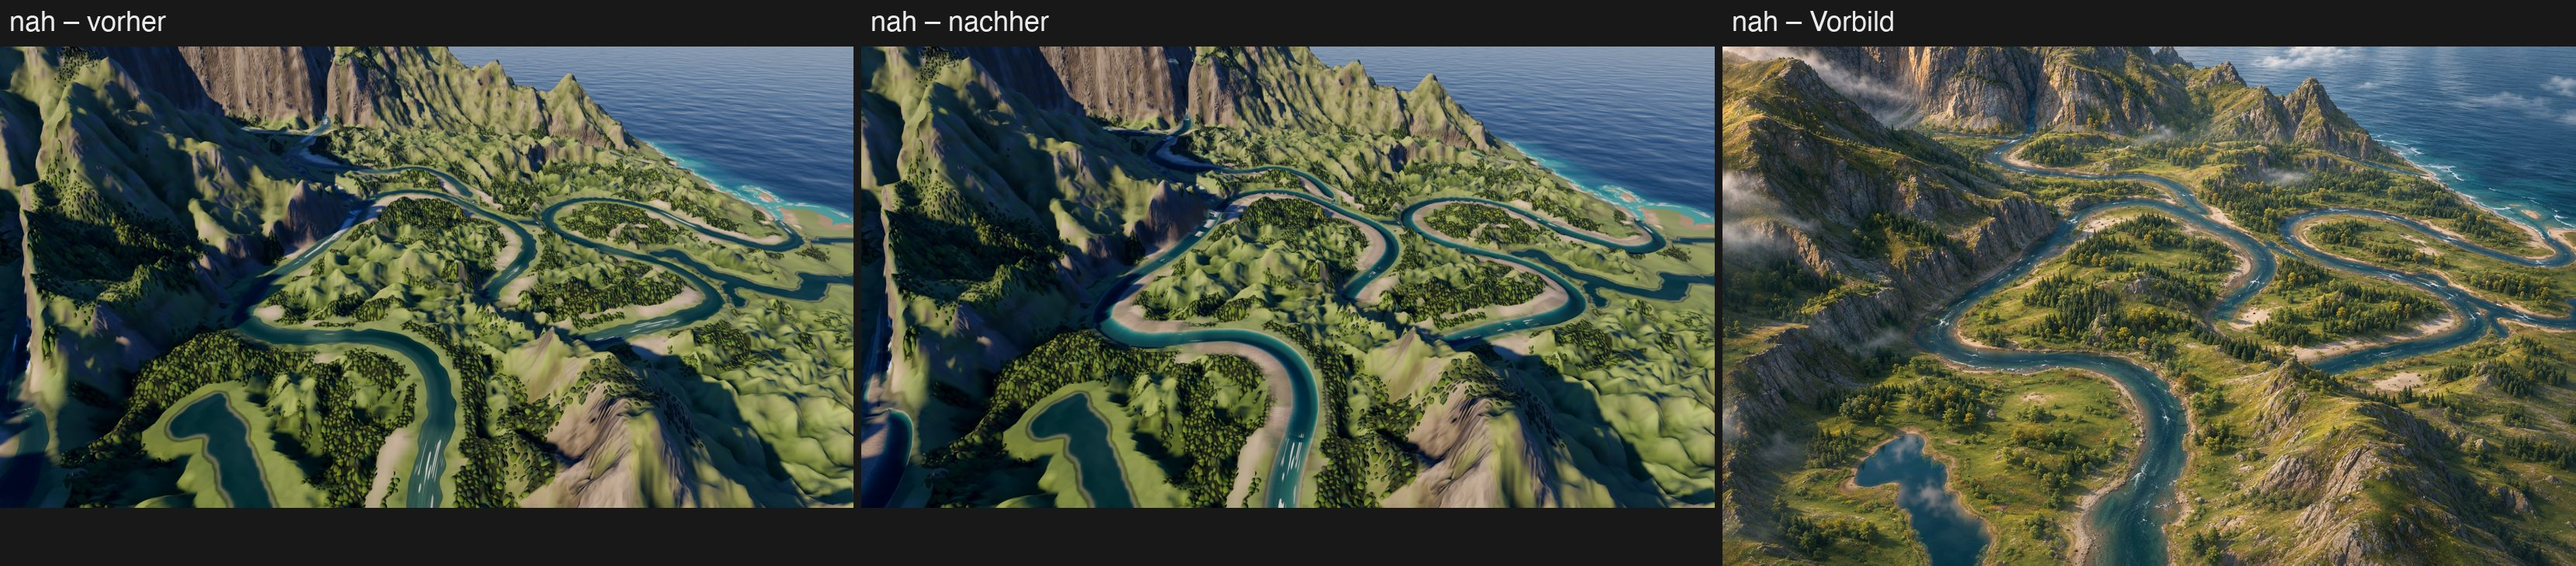
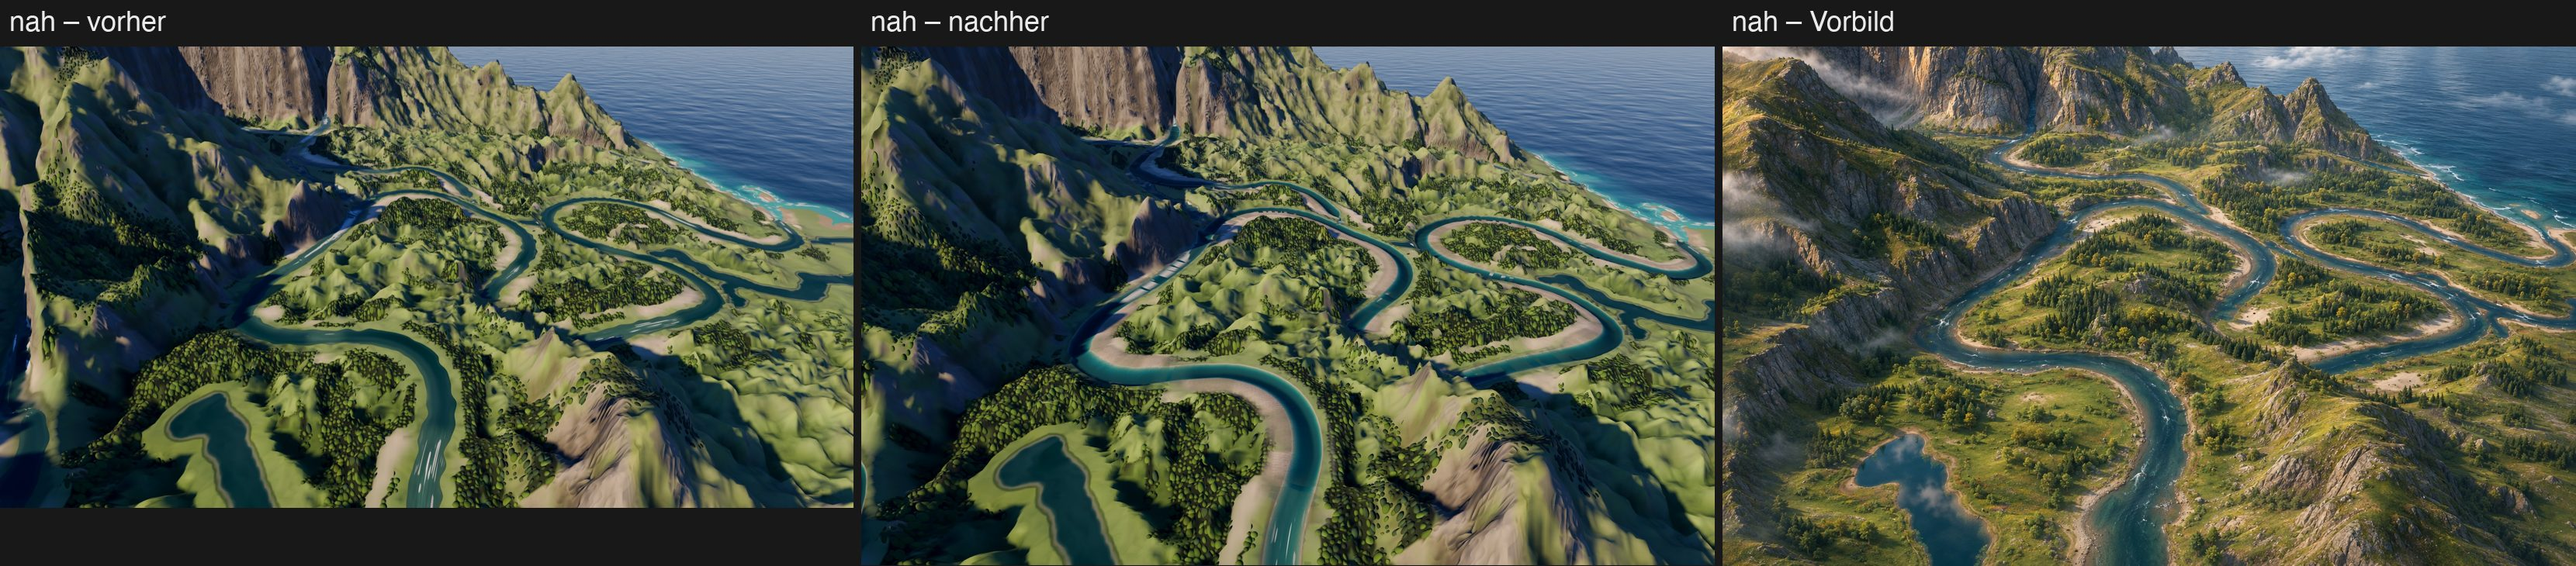
Corridor: keep the lid near the water in canyons
In steep canyons the bank tops climbed the rock wall and lifted the lid
with them. The lid depth then pulled ribbon and bank in front of the ridge
before the river, so pieces of water and bank hung in the air. Cap the lid
at 0.12 above the visible water level, end corridor columns below it so the
wall itself covers the rest, shorten the lid reach at grazing angles, and
guard it with a canyon section test and the aged-world test.

Changed region(s): [[0.3102, 0.0603, 0.6825, 1.0]]

diff --git a/SimCore/Tests/SimCoreTests/RiverCorridorTests.swift b/SimCore/Tests/SimCoreTests/RiverCorridorTests.swift
@@ -66,6 +66,26 @@ final class RiverCorridorTests: XCTestCase {
         XCTAssertGreaterThanOrEqual(s.lid, 1.1, "Deckel über dem Wasser")
     }
 
+    /// Schlucht (Befund zu #240): Ufer, die eine Felswand hochstiegen, hoben
+    /// den Deckel und zogen Band und Böschung vor den Grat davor. Der Deckel
+    /// bleibt knapp über dem Wasser, der Korridor endet darunter, die Wand
+    /// zeigt das Gelände selbst.
+    func testCanyonKeepsTheLidNearTheWater() {
+        let k = CorridorProfile.columns, sh = CorridorProfile.shoreColumn
+        // Sohle 1,0 in der Mitte, Wände steigen ab 1,5 Zellen um 1 je Zelle.
+        let wall: (Double) -> Double = { c in 1.0 + max(0, abs(c) - 1.5) }
+        let s = CorridorProfile.section(halfWidthCells: 2, visible: 1, waterLeft: 1.0, waterRight: 1.0,
+                                        bend: 0, riffle: 0, cellSize: 0.156, surface: wall)
+        let cap = 1.0 + CorridorProfile.lidMaxAboveWater + CorridorProfile.lidClearance
+        XCTAssertLessThanOrEqual(s.lid, cap + 1e-12, "Deckel klettert die Schluchtwand hoch")
+        for c in 0..<k {
+            XCTAssertLessThanOrEqual(s.heights[c], s.lid - CorridorProfile.lidClearance + 1e-12,
+                                     "Korridor über dem Deckel (Spalte \(c))")
+        }
+        XCTAssertGreaterThanOrEqual(s.heights[CorridorProfile.topColumn], s.heights[sh] + CorridorProfile.freeboard - 1e-12,
+                                    "Wasser über dem Ufer")
+    }
+
     /// Pflicht-Wächter auf der gealterten Render-Testwelt: Mesh konsistent,
     /// Bett unter der Uferkante, Wasser nie über dem Ufer, kein Gelände über
     /// dem Deckel (sonst stäche es durch Bett und Wasserfläche).
@@ -88,7 +108,7 @@ final class RiverCorridorTests: XCTestCase {
 
         let n = t.cfg.n, cs = t.cfg.cellSize, half = t.cfg.world / 2
         let bank = BankSurface(h: t.h, n: n, renderGrid: n, hscale: RenderContract.heightScale)
-        var sections = 0, bedAbove = 0, waterAbove = 0, pierced = 0, lifted = 0, outsideMask = 0
+        var sections = 0, bedAbove = 0, waterAbove = 0, pierced = 0, lifted = 0, outsideMask = 0, lidHigh = 0, wetRock = 0
         var maxPierce = 0.0
         for start in stride(from: 0, to: c.vertices.count, by: k) {
             guard c.colors[start].w > 0.05 else { continue }   // sichtbare Querschnitte
@@ -102,18 +122,33 @@ final class RiverCorridorTests: XCTestCase {
             let wR = Double(c.vertices[start + k - 1 - sh].y + c.custom[start + k - 1 - sh].x)
             if wL > topL + 1e-5 || wR > topR + 1e-5 { waterAbove += 1 }
             let lid = Double(c.custom[start].y)
+            // Deckel knapp über dem Wasser (Befund zu #240: Schluchtwände).
+            let waterTop = max(Double(c.vertices[start + sh].y + c.custom[start + sh].x),
+                               Double(c.vertices[start + k - 1 - sh].y + c.custom[start + k - 1 - sh].x))
+            if lid > waterTop + CorridorProfile.lidMaxAboveWater + CorridorProfile.lidClearance + 1e-4 { lidHigh += 1 }
             for col in 0..<k {
                 let v = c.vertices[start + col]
-                let g = bank.height((Double(v.x) + half) / cs, (Double(v.z) + half) / cs)
-                let over = max(g, Double(v.y)) - lid
+                // Kein Korridor über dem Deckel. Gelände darf darüber liegen
+                // (Schluchtwand, sie verdeckt den Korridor); im nassen Teil
+                // stäche es durch das Wasser — wie auf `main`, wo die Bandkanten
+                // in Schluchten in den Fels tauchen. Das bleibt selten.
+                let over = Double(v.y) - lid
                 if over > 1e-4 { pierced += 1; maxPierce = max(maxPierce, over) }
+                if col >= sh && col <= k - 1 - sh,
+                   bank.height((Double(v.x) + half) / cs, (Double(v.z) + half) / cs) - lid > 1e-4 {
+                    wetRock += 1
+                }
             }
             // Der Fuß liegt auf dem Gelände (keine Lippe, keine Lücke zum Gelände);
             // gezählt werden die Uferkanten, die als Uferwall darüber stehen.
             for e in [start, start + k - 1] {
                 let v = c.vertices[e]
                 let gx = (Double(v.x) + half) / cs, gz = (Double(v.z) + half) / cs
-                XCTAssertEqual(Double(v.y), bank.height(gx, gz), accuracy: 1e-4, "Korridor-Fuß nicht auf dem Gelände")
+                // Liegt das Gelände über dem Deckel (Schluchtwand), endet der
+                // Fuß darunter und die Wand verdeckt ihn.
+                let lidTop = Double(c.custom[start].y) - CorridorProfile.lidClearance
+                XCTAssertEqual(Double(v.y), min(bank.height(gx, gz), lidTop), accuracy: 1e-4,
+                               "Korridor-Fuß nicht auf dem Gelände")
                 // Naht zur verfeinerten Fläche (#238): der Fuß liegt in der
                 // Schutzmaske, dort ist das Gelände unverschoben.
                 let ci = min(max(Int(gx.rounded()), 0), n - 1), cj = min(max(Int(gz.rounded()), 0), n - 1)
@@ -131,11 +166,14 @@ final class RiverCorridorTests: XCTestCase {
               + "ribbonVerts=\(mesh.vertices.count) presence>0=\(mesh.profile.filter { $0.x > 0 }.count) "
               + "n=\(n) cs=\(cs)")
         print("corridor sections=\(sections) bedAbove=\(bedAbove) waterAbove=\(waterAbove) "
-              + "pierced=\(pierced) maxPierce=\(maxPierce) liftedEdges=\(lifted) outsideMask=\(outsideMask)")
+              + "pierced=\(pierced) maxPierce=\(maxPierce) liftedEdges=\(lifted) outsideMask=\(outsideMask) "
+              + "lidHigh=\(lidHigh) wetRock=\(wetRock)")
         XCTAssertGreaterThan(sections, 200)
         XCTAssertEqual(bedAbove, 0, "Bett über der Uferkante")
         XCTAssertEqual(waterAbove, 0, "Wasser über dem Ufer")
-        XCTAssertEqual(pierced, 0, "Gelände oder Korridor über dem Deckel")
+        XCTAssertEqual(pierced, 0, "Korridor über dem Deckel")
+        XCTAssertLessThanOrEqual(wetRock, sections / 100, "Gelände sticht oft durch das Wasser")
+        XCTAssertEqual(lidHigh, 0, "Deckel weit über dem Wasser (zöge den Fluss vor Grate davor)")
         XCTAssertEqual(outsideMask, 0, "Korridor-Fuß außerhalb der Schutzmaske (Naht zu #238)")
         // Die Wasserfläche des Bands liegt unter dem Deckel ihres Stützpunkts.
         for (v, p) in zip(mesh.vertices, mesh.profile) {

diff --git a/SimCore/Sources/SimRender/RiverCorridor.swift b/SimCore/Sources/SimRender/RiverCorridor.swift
@@ -127,6 +127,12 @@ enum CorridorProfile {
     }
     /// Deckel über der höchsten Geländehöhe im Querschnitt (Welt-Y).
     static let lidClearance = 0.02
+    /// Höchstens so weit (Welt-Y) liegt der Deckel über dem Wasserspiegel.
+    /// In einer Schlucht stieg die Uferkante sonst die Felswand hoch und der
+    /// Deckel mit ihr; die Deckel-Tiefe zog Band und Böschung dann vor den
+    /// Grat davor (frei hängende Fluss- und Wandstücke, Befund zu #240). Was
+    /// über dem Deckel liegt, ist echtes Gelände und verdeckt den Korridor.
+    static let lidMaxAboveWater = 0.12
 
     /// Ein Querschnitt: Spalten-Lage (Zellen, signiert, links negativ),
     /// Höhe (Welt-Y), Tiefe unter Wasser (Welt-Y) und Gleithang-Anteil.
@@ -209,6 +215,26 @@ enum CorridorProfile {
         for e in left { put(e.0, e.1, e.2) }
         put(thalweg, water(thalweg) - depth, 0)
         for e in right { put(e.0, e.1, e.2) }
+        // Deckel: höchste Geländehöhe und höchste Korridor-Höhe im Querschnitt,
+        // auch zwischen den Spalten (die Ufersuche lässt bis 2,5 Zellen
+        // Abstand), aber höchstens `lidMaxAboveWater` über dem Wasser. Ufer,
+        // die höher hinauf reichen (Schluchtwand), enden unter dem Deckel:
+        // darüber zeigt das Gelände selbst die Wand.
+        // Gedeckelt über dem SICHTBAREN Spiegel (an den Uferlinien), nicht über
+        // den Bandkanten: die liegen bei Querneigung höher und gehören unter
+        // die Böschung.
+        let waterTop = max(water(s.offsets[shoreColumn]), water(s.offsets[columns - 1 - shoreColumn]))
+        var lid = max(waterLeft, waterRight)
+        for k in 0..<columns {
+            lid = max(lid, s.heights[k], surface(s.offsets[k]))
+            if k > 0 { lid = max(lid, surface(0.5 * (s.offsets[k - 1] + s.offsets[k]))) }
+        }
+        lid = min(lid, waterTop + lidMaxAboveWater)
+        s.lid = lid + lidClearance
+        for k in 0..<columns where s.heights[k] > lid {
+            s.heights[k] = lid
+            s.depths[k] = water(s.offsets[k]) - lid
+        }
         // Bett überall unter BEIDEN Uferkanten (Querneigung der Wasserfläche).
         let lowTop = min(s.heights[topColumn], s.heights[columns - 1 - topColumn]) - freeboard
         for k in (shoreColumn + 1)..<(columns - 1 - shoreColumn) where s.heights[k] > lowTop {
@@ -223,14 +249,6 @@ enum CorridorProfile {
         }
         // Monotone Lage erzwingen (bei winziger Breite fallen Spalten zusammen).
         for k in 1..<columns { s.offsets[k] = max(s.offsets[k], s.offsets[k - 1]) }
-        // Deckel: höchste Geländehöhe und höchste Korridor-Höhe im Querschnitt,
-        // auch zwischen den Spalten (die Ufersuche lässt bis 2,5 Zellen Abstand).
-        var lid = max(waterLeft, waterRight)
-        for k in 0..<columns {
-            lid = max(lid, s.heights[k], surface(s.offsets[k]))
-            if k > 0 { lid = max(lid, surface(0.5 * (s.offsets[k - 1] + s.offsets[k]))) }
-        }
-        s.lid = lid + lidClearance
         return s
     }
 }

diff --git a/SimCore/Sources/SimRender/RiverRibbonRenderer.swift b/SimCore/Sources/SimRender/RiverRibbonRenderer.swift
@@ -1458,7 +1458,7 @@ public final class RiverRibbonRenderer {
                 // Review #240). `section.lid` liegt über beiden Kanten.
                 let half = Float(section.waterHalfWidthCells * cs)
                 for own in [yLeftD, yRightD] {
-                    mesh.profile.append(SIMD4(Float(pres), Float(own + pres * (section.lid - own)), half, 0))
+                    mesh.profile.append(SIMD4(Float(pres), Float(own + pres * max(0, section.lid - own)), half, 0))
                 }
             } else {
                 for own in [yLeft, yRight] {

diff --git a/docs/look/e-corridor/README.md b/docs/look/e-corridor/README.md
@@ -17,7 +17,11 @@ Stand 2026-11-21, Zweig `look-e-corridor` auf `origin/main` (0783abf).
   Vertex-Shader die Tiefe ihres Sehstrahls auf einem Deckel (höchste
   Geländehöhe im Querschnitt + 0,02), `game/shaders/corridor_common.gdshaderinc`.
   Das Bett gewinnt so gegen das Gelände darüber, Hügel davor verdecken es
-  weiter. Licht und Schatten am Deckelpunkt (`LIGHT_VERTEX`). Die Naht liegt
+  weiter. Der Deckel liegt höchstens 0,12 über dem sichtbaren Wasserspiegel
+  (`lidMaxAboveWater`): in Schluchten stieg er sonst mit der Felswand, und
+  Band und Böschung hingen vor dem Grat davor in der Luft
+  (`schlucht-deckel.jpg`). Ufer, die höher reichen, enden unter dem Deckel,
+  die Wand zeigt das Gelände selbst. Licht und Schatten am Deckelpunkt (`LIGHT_VERTEX`). Die Naht liegt
   auf dem Umriss des Meshes, nicht auf dem Zellgitter.
 - **Wasser**: Körperfarbe im Korridor nach Beer-Lambert aus der Profiltiefe
   (kein Tiefenpuffer). Das Band zeichnet darüber nur die Oberfläche:
@@ -33,9 +37,11 @@ Stand 2026-11-21, Zweig `look-e-corridor` auf `origin/main` (0783abf).
 ## Wächter
 
 `SimCoreTests/RiverCorridorTests.swift`: Bett unter beiden Uferkanten, Wasser
-nie über dem Ufer, kein Gelände über dem Deckel (sonst stäche es durch Bett
-und Wasser), Fuß auf dem Gelände und in der Schutzmaske, Wasserfläche unter
-dem Deckel. `tests/river_ribbons.gd`: Korridor-Puffer vollständig und stimmig.
+nie über dem Ufer, kein Korridor über dem Deckel, Deckel höchstens
+`lidMaxAboveWater` über dem Wasser (Schlucht), Gelände im nassen Teil höchstens
+in 1 % der Querschnitte über dem Deckel (wie auf `main` an Schluchtwänden), Fuß
+auf dem Gelände (oder unter der Wand) und in der Schutzmaske, Band ohne Korridor
+mit unverschobener Tiefe. `tests/river_ribbons.gd`: Korridor-Puffer vollständig und stimmig.
 Bestehende Band-Wächter, alle Godot-Vertragstests und die SimCore-Suite
 (677 Tests) grün. `simperf --hash` 95cf93ca1b40985c, `SimCore/Sources/SimCore`
 unverändert.
